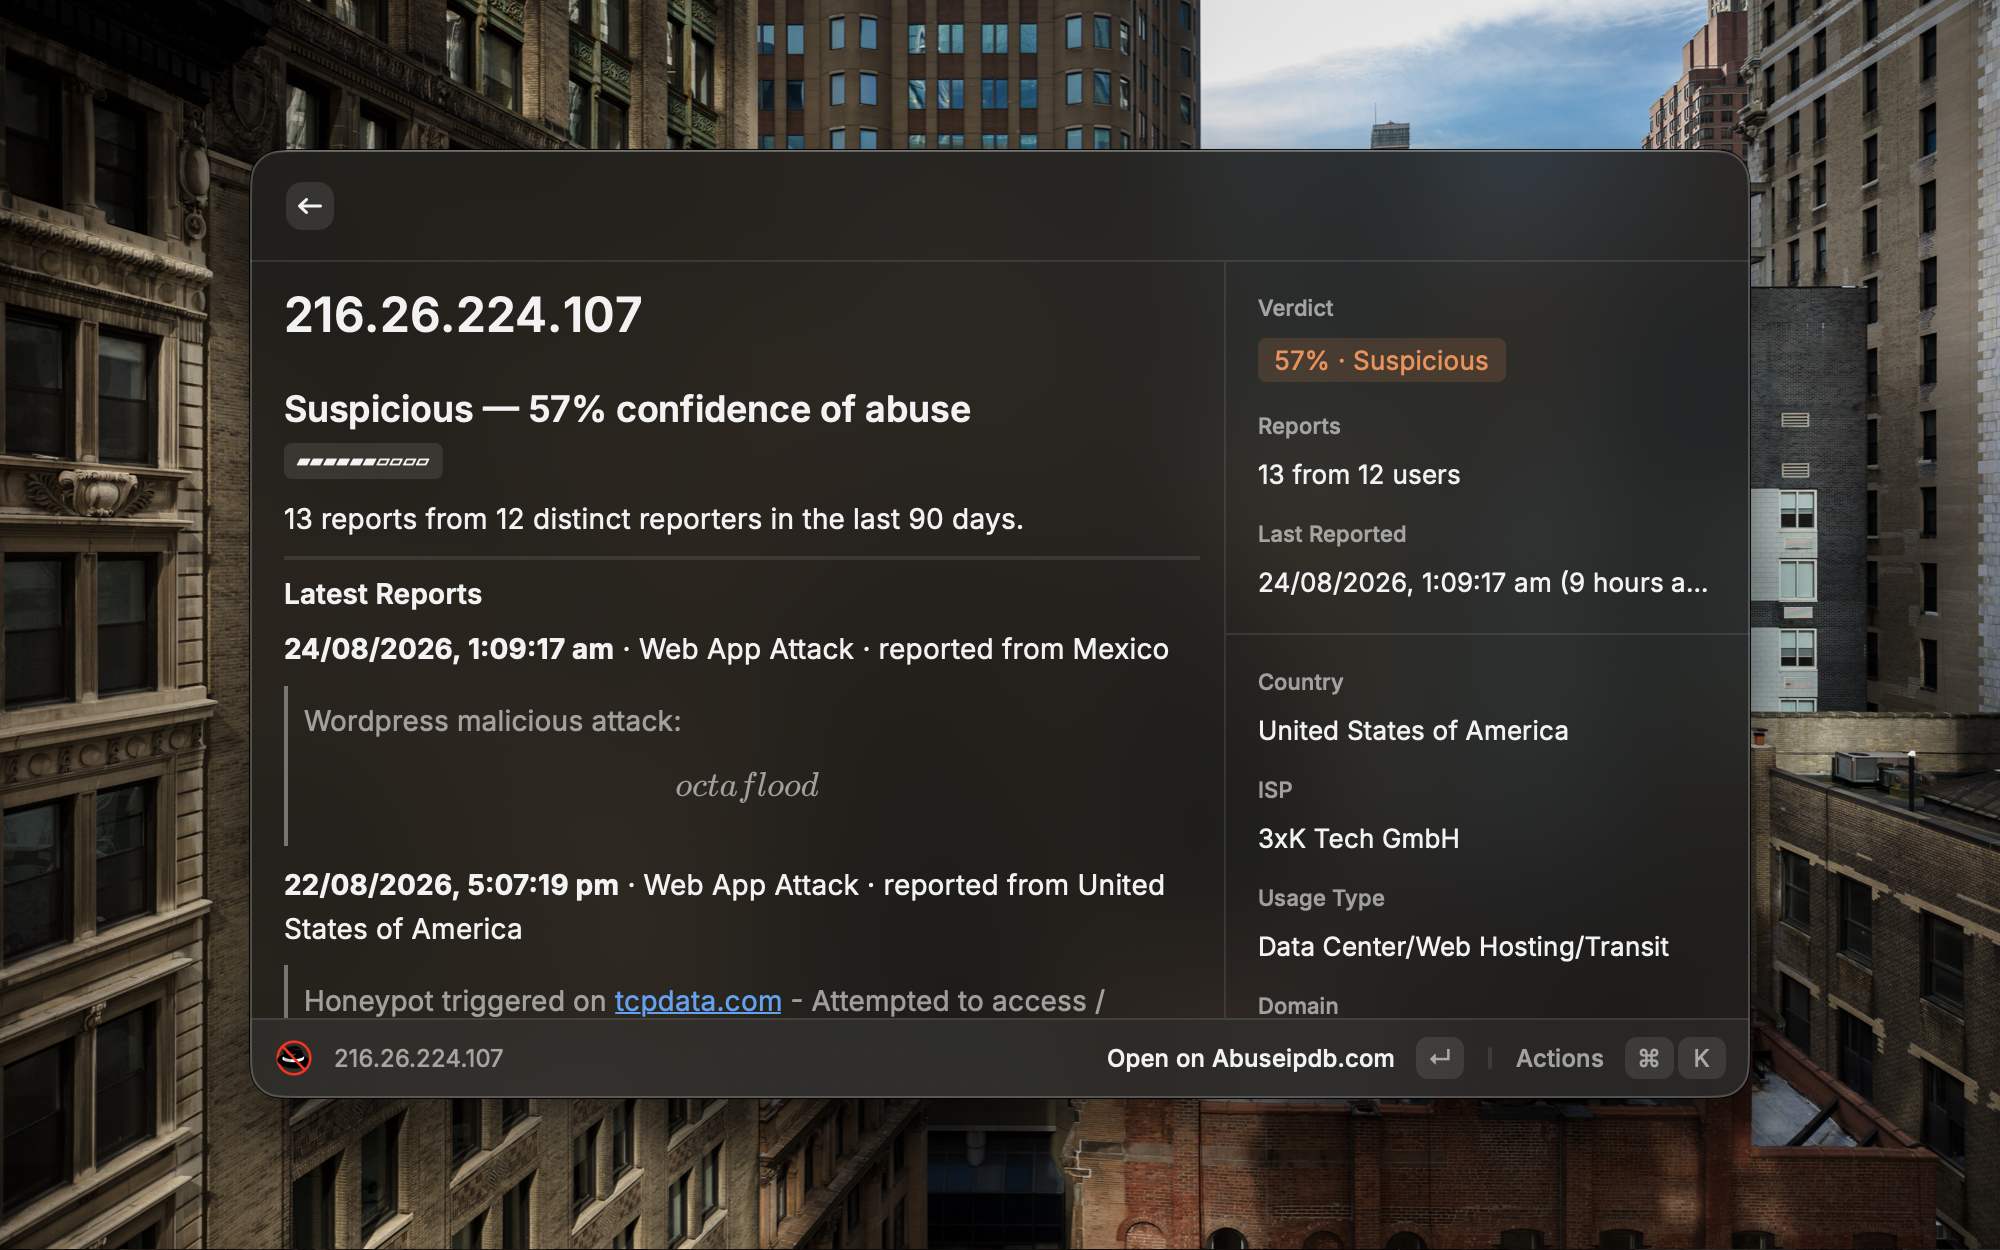
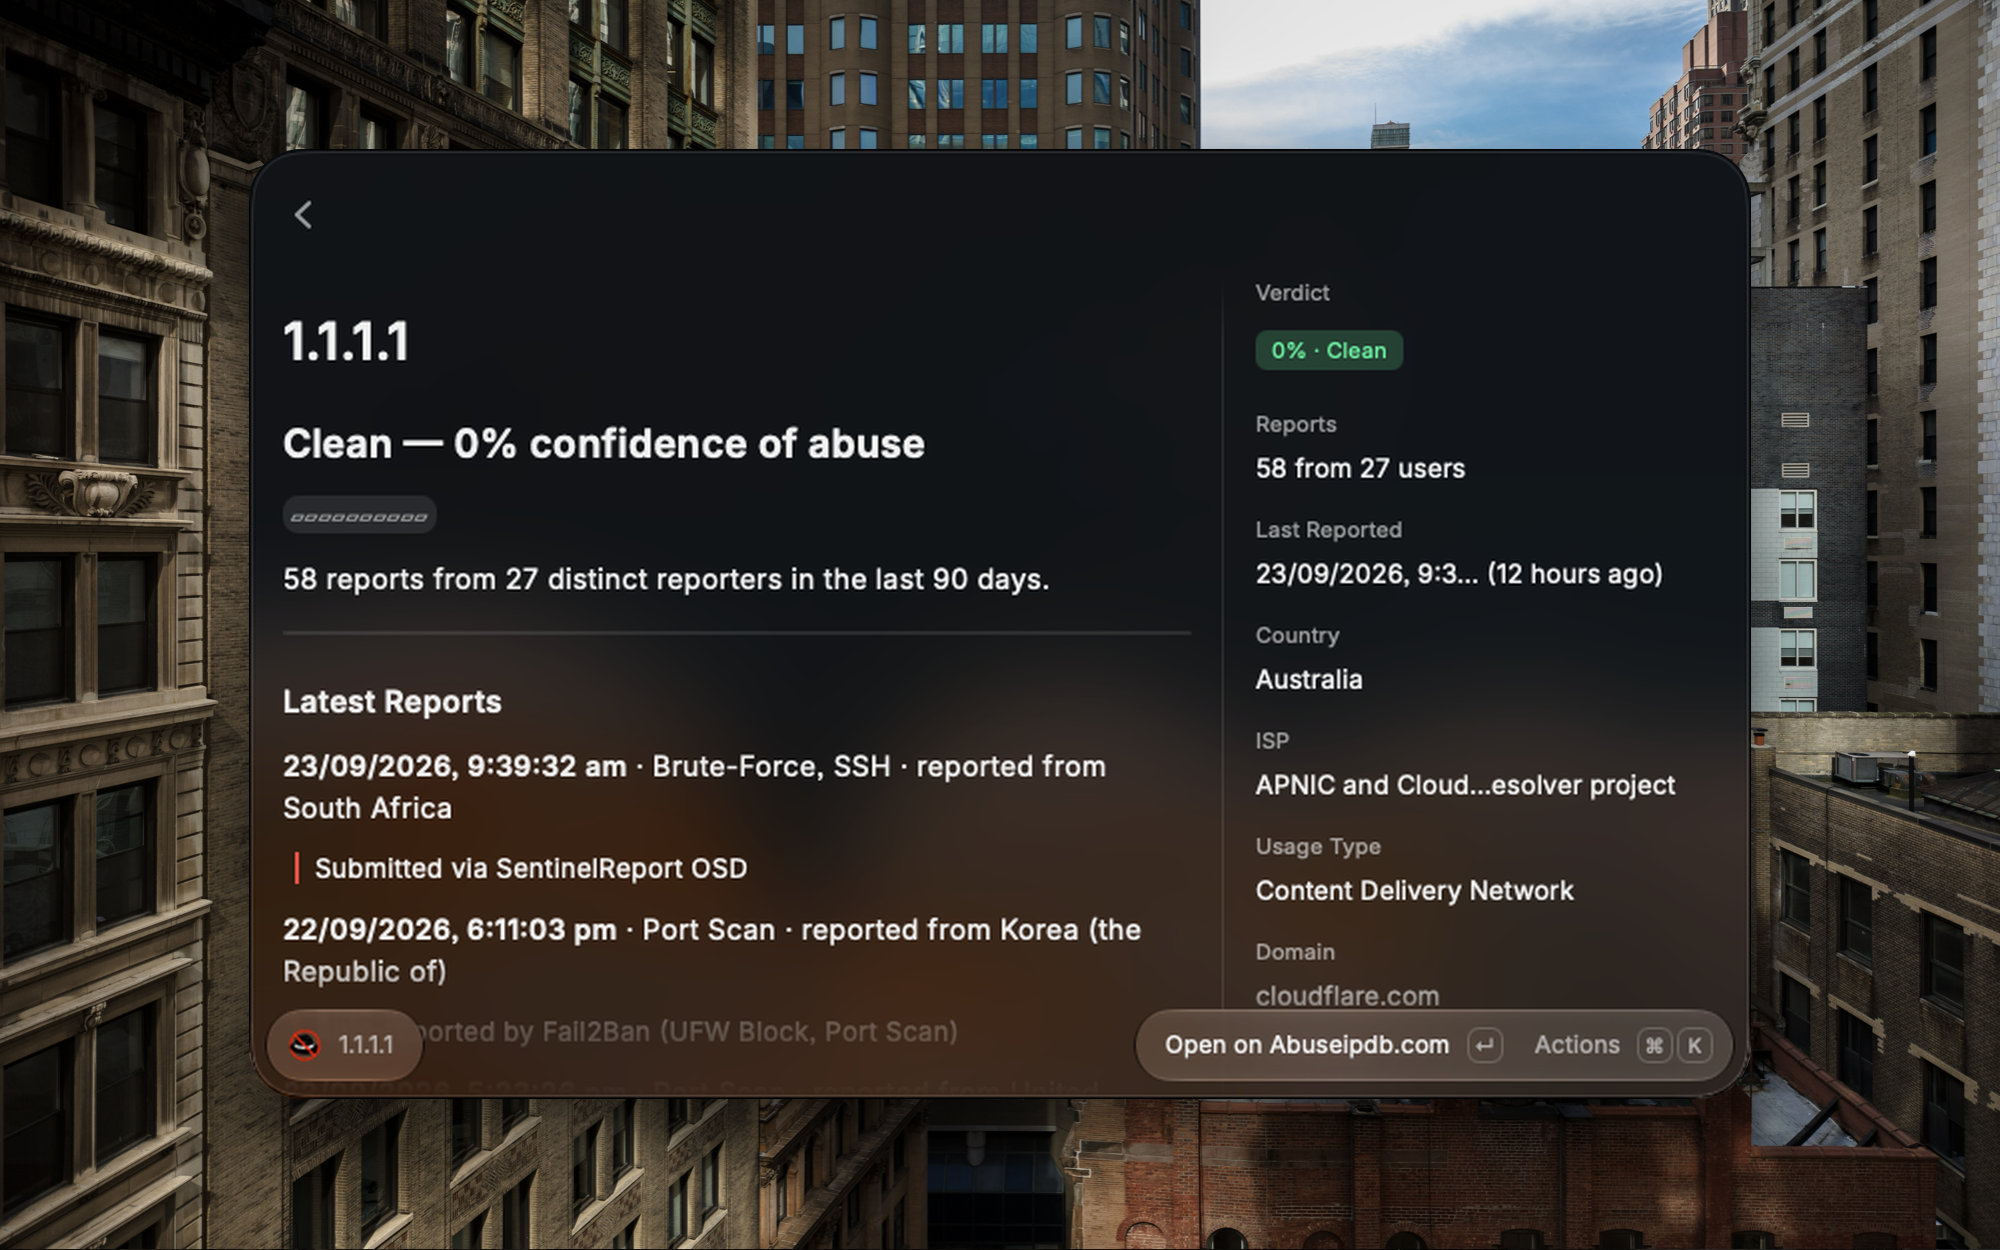
Handle launch failures and replace duplicate screenshot
Catch errors when opening Check IP from the clipboard empty state and
show a failure toast. Replace the duplicate report screenshot with a
clean-IP report.

Changed region(s): [[0.124, 0.0936, 0.899, 0.9048], [0.124, 0.1248, 0.186, 0.1872]]

diff --git a/src/check-clipboard-ip.tsx b/src/check-clipboard-ip.tsx
@@ -1,5 +1,5 @@
 import { Action, ActionPanel, Clipboard, Detail, Icon, LaunchType, List, launchCommand } from "@raycast/api";
-import { usePromise } from "@raycast/utils";
+import { showFailureToast, usePromise } from "@raycast/utils";
 import { IpReport } from "./ip-report";
 import { extractIp } from "./lib/ip";
 
@@ -22,7 +22,13 @@ export default function Command() {
               <Action
                 title="Open Check IP Command"
                 icon={Icon.Shield}
-                onAction={() => launchCommand({ name: "check-ip", type: LaunchType.UserInitiated })}
+                onAction={async () => {
+                  try {
+                    await launchCommand({ name: "check-ip", type: LaunchType.UserInitiated });
+                  } catch (error) {
+                    await showFailureToast(error, { title: "Could Not Open Check IP" });
+                  }
+                }}
               />
             </ActionPanel>
           }
